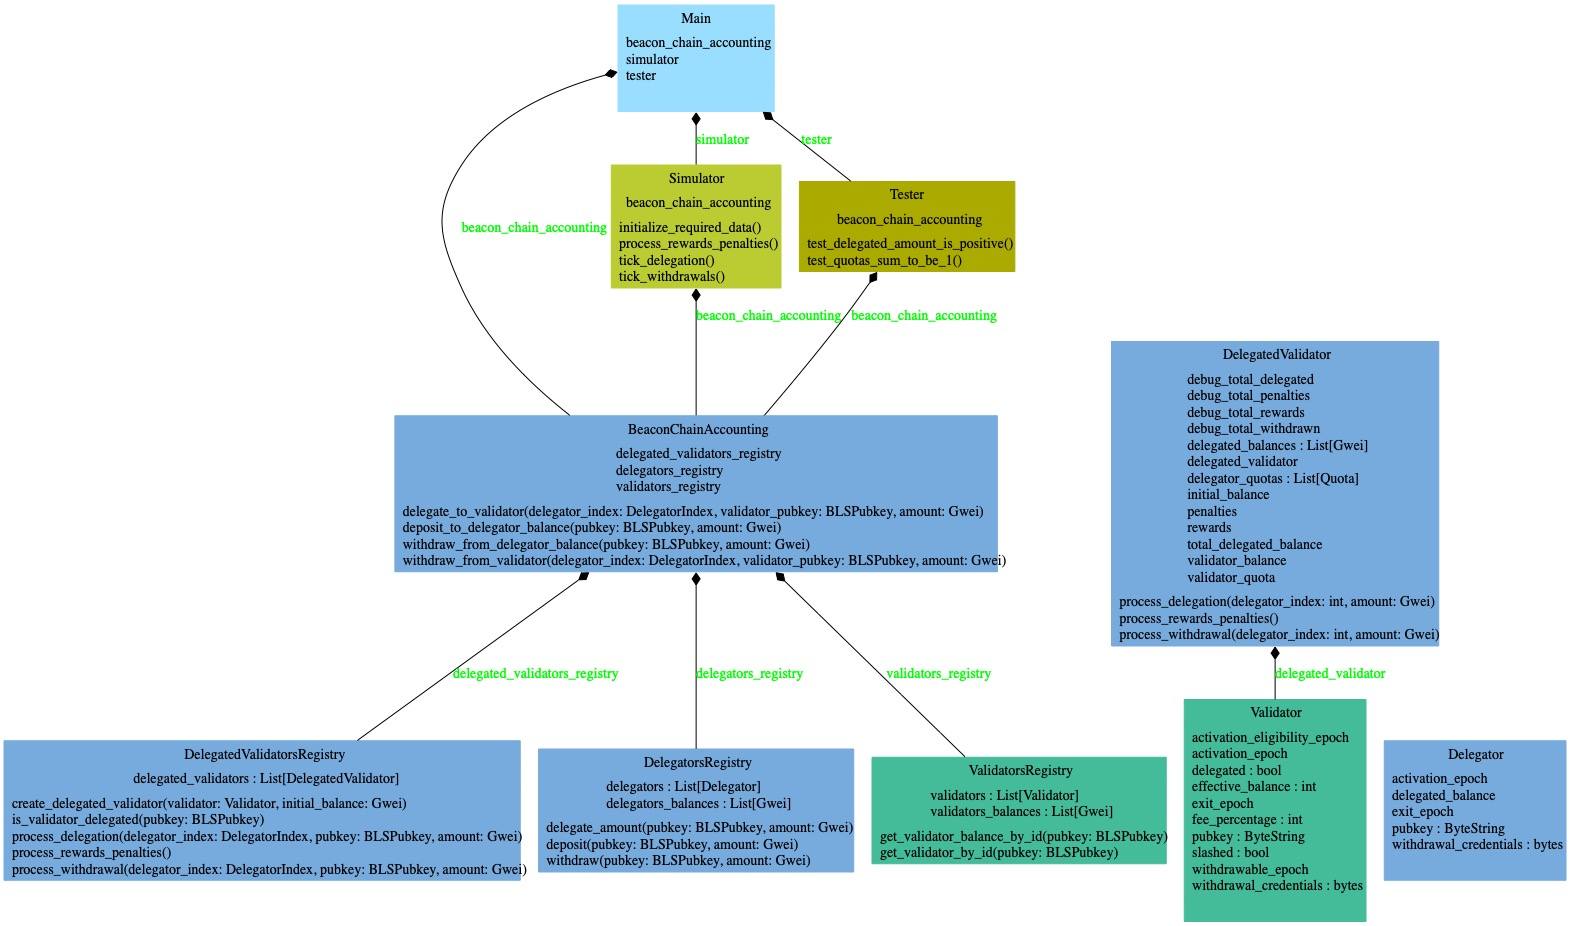
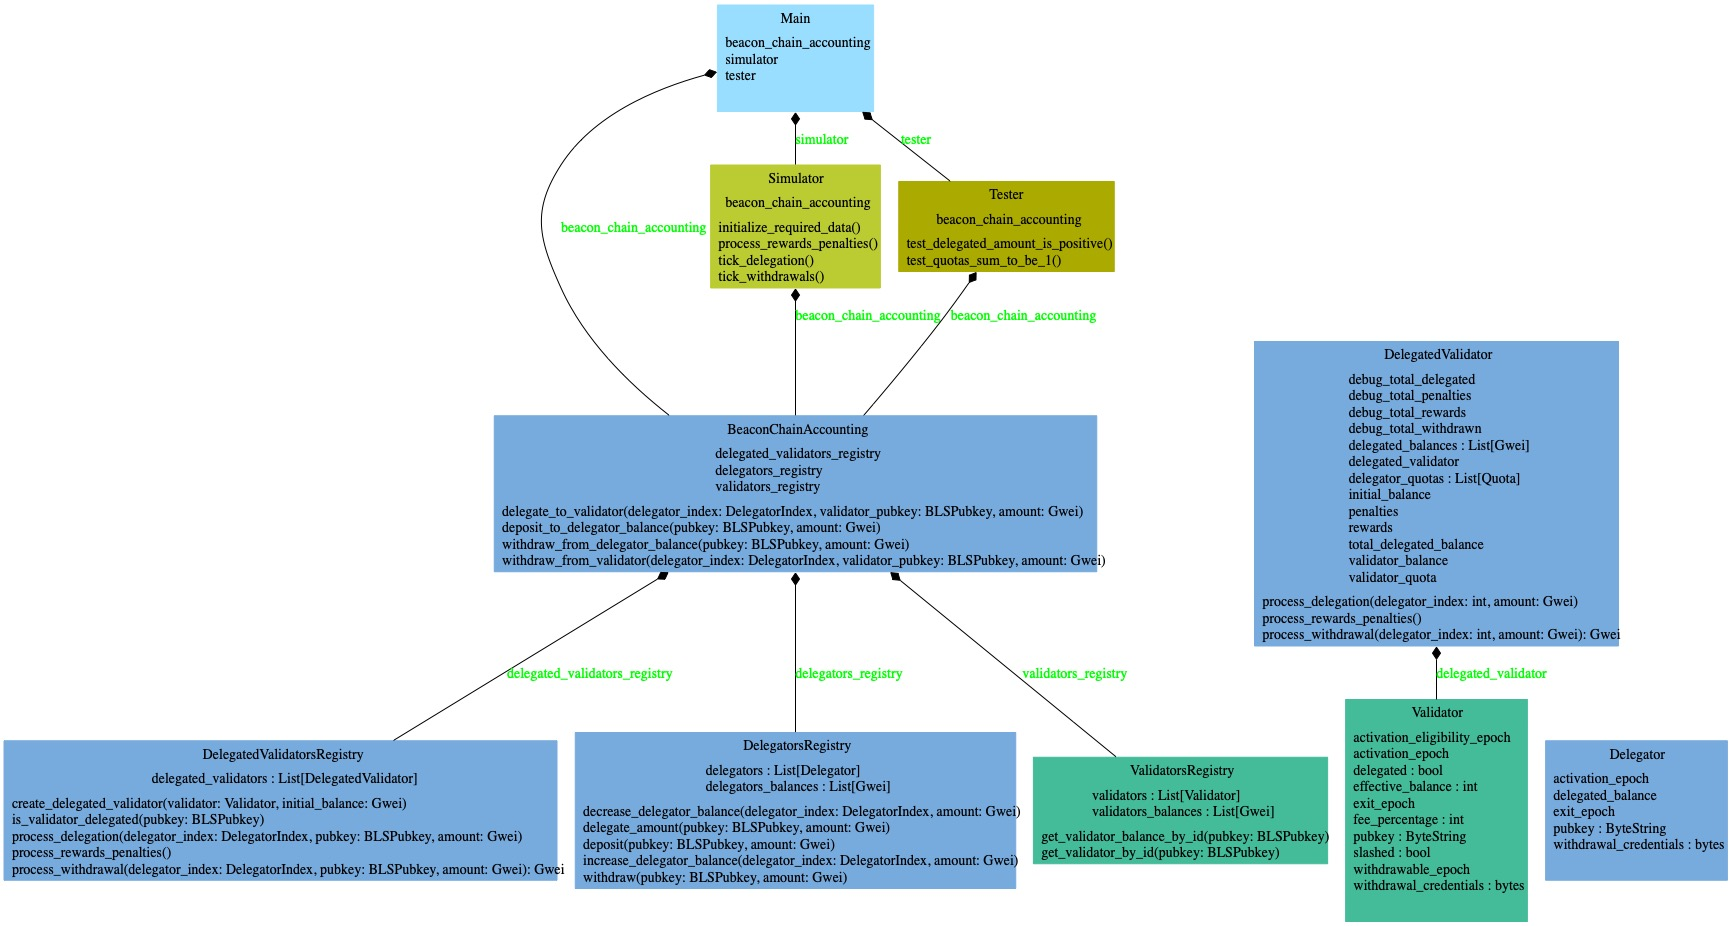
Docs gen and comments fixed

diff --git a/docs/src/eods/delegators_registry.html b/docs/src/eods/delegators_registry.html
@@ -85,8 +85,8 @@ el.replaceWith(d);
 
     def deposit(self, pubkey: BLSPubkey, amount: Gwei):
         &#34;&#34;&#34;
-        This method adds an amount from a delegator&#39;s balance.
-        If there is no delegator for the specified pubkey it will be created.
+        This method adds an amount to a delegator&#39;s balance.
+        If there is no delegator for the specified pubkey, a delegator will be created.
         &#34;&#34;&#34;
         
         # If delegator does not exist, register the new delegator
@@ -99,18 +99,38 @@ el.replaceWith(d);
 
         # Add the deposit amount to the delegator&#39;s balance
         self.delegators_balances[delegator_index] += amount
-
+    
     def withdraw(self, pubkey: BLSPubkey, amount: Gwei):
         &#34;&#34;&#34;
-        This method adds an amount from a delegator&#39;s balance.
+        This method withdraws an amount from a delegator&#39;s balance.
+        If the requested amount is larger than the available amount, 
+        only the available amount will be returned.
         &#34;&#34;&#34;
+        
         delegator_index = self._get_delegator_index_by_id(pubkey)
 
-        if amount &lt;= 0:
-            raise ValueError(&#34;Withdrawed amount must be positive.&#34;)
+        amount_to_withdraw = amount
 
-        # Adds the withdrawed amount back to the delegator&#39;s balance
+        if(amount_to_withdraw &gt; self.delegators_balances[delegator_index]):
+            amount_to_withdraw = self.delegators_balances[delegator_index]
+            
+        self.delegators_balances[delegator_index] -= amount_to_withdraw    
+
+    def increase_delegator_balance(self, delegator_index: DelegatorIndex, amount: Gwei):
+        &#34;&#34;&#34;
+        This method adds an amount to a delegator&#39;s balance.
+        &#34;&#34;&#34;
+
+        if amount &lt; 0:
+            raise ValueError(&#34;Amount must be positive.&#34;)
+
         self.delegators_balances[delegator_index] += amount
+        
+    def decrease_delegator_balance(self, delegator_index: DelegatorIndex, amount: Gwei):
+        &#34;&#34;&#34;
+        This method removes an amount from a delegator&#39;s balance.
+        &#34;&#34;&#34;
+        self.delegators_balances[delegator_index] -= amount    
 
     def _get_delegator_index_by_id(self, pubkey : BLSPubkey):
         &#34;&#34;&#34;Helper function to find a validator&#39;s index by its ID.&#34;&#34;&#34;
@@ -147,6 +167,22 @@ el.replaceWith(d);
 </dl>
 <h3>Methods</h3>
 <dl>
+<dt id="src.eods.delegators_registry.DelegatorsRegistry.decrease_delegator_balance"><code class="name flex">
+<span>def <span class="ident">decrease_delegator_balance</span></span>(<span>self, delegator_index: numpy.uint64, amount: numpy.uint64)</span>
+</code></dt>
+<dd>
+<details class="source">
+<summary>
+<span>Expand source code</span>
+</summary>
+<pre><code class="python">def decrease_delegator_balance(self, delegator_index: DelegatorIndex, amount: Gwei):
+    &#34;&#34;&#34;
+    This method removes an amount from a delegator&#39;s balance.
+    &#34;&#34;&#34;
+    self.delegators_balances[delegator_index] -= amount    </code></pre>
+</details>
+<div class="desc"><p>This method removes an amount from a delegator's balance.</p></div>
+</dd>
 <dt id="src.eods.delegators_registry.DelegatorsRegistry.delegate_amount"><code class="name flex">
 <span>def <span class="ident">delegate_amount</span></span>(<span>self, pubkey: ByteString, amount: numpy.uint64)</span>
 </code></dt>
@@ -183,8 +219,8 @@ el.replaceWith(d);
 </summary>
 <pre><code class="python">def deposit(self, pubkey: BLSPubkey, amount: Gwei):
     &#34;&#34;&#34;
-    This method adds an amount from a delegator&#39;s balance.
-    If there is no delegator for the specified pubkey it will be created.
+    This method adds an amount to a delegator&#39;s balance.
+    If there is no delegator for the specified pubkey, a delegator will be created.
     &#34;&#34;&#34;
     
     # If delegator does not exist, register the new delegator
@@ -198,8 +234,28 @@ el.replaceWith(d);
     # Add the deposit amount to the delegator&#39;s balance
     self.delegators_balances[delegator_index] += amount</code></pre>
 </details>
-<div class="desc"><p>This method adds an amount from a delegator's balance.
-If there is no delegator for the specified pubkey it will be created.</p></div>
+<div class="desc"><p>This method adds an amount to a delegator's balance.
+If there is no delegator for the specified pubkey, a delegator will be created.</p></div>
+</dd>
+<dt id="src.eods.delegators_registry.DelegatorsRegistry.increase_delegator_balance"><code class="name flex">
+<span>def <span class="ident">increase_delegator_balance</span></span>(<span>self, delegator_index: numpy.uint64, amount: numpy.uint64)</span>
+</code></dt>
+<dd>
+<details class="source">
+<summary>
+<span>Expand source code</span>
+</summary>
+<pre><code class="python">def increase_delegator_balance(self, delegator_index: DelegatorIndex, amount: Gwei):
+    &#34;&#34;&#34;
+    This method adds an amount to a delegator&#39;s balance.
+    &#34;&#34;&#34;
+
+    if amount &lt; 0:
+        raise ValueError(&#34;Amount must be positive.&#34;)
+
+    self.delegators_balances[delegator_index] += amount</code></pre>
+</details>
+<div class="desc"><p>This method adds an amount to a delegator's balance.</p></div>
 </dd>
 <dt id="src.eods.delegators_registry.DelegatorsRegistry.withdraw"><code class="name flex">
 <span>def <span class="ident">withdraw</span></span>(<span>self, pubkey: ByteString, amount: numpy.uint64)</span>
@@ -211,17 +267,23 @@ If there is no delegator for the specified pubkey it will be created.</p></div>
 </summary>
 <pre><code class="python">def withdraw(self, pubkey: BLSPubkey, amount: Gwei):
     &#34;&#34;&#34;
-    This method adds an amount from a delegator&#39;s balance.
+    This method withdraws an amount from a delegator&#39;s balance.
+    If the requested amount is larger than the available amount, 
+    only the available amount will be returned.
     &#34;&#34;&#34;
+    
     delegator_index = self._get_delegator_index_by_id(pubkey)
 
-    if amount &lt;= 0:
-        raise ValueError(&#34;Withdrawed amount must be positive.&#34;)
+    amount_to_withdraw = amount
 
-    # Adds the withdrawed amount back to the delegator&#39;s balance
-    self.delegators_balances[delegator_index] += amount</code></pre>
+    if(amount_to_withdraw &gt; self.delegators_balances[delegator_index]):
+        amount_to_withdraw = self.delegators_balances[delegator_index]
+        
+    self.delegators_balances[delegator_index] -= amount_to_withdraw    </code></pre>
 </details>
-<div class="desc"><p>This method adds an amount from a delegator's balance.</p></div>
+<div class="desc"><p>This method withdraws an amount from a delegator's balance.
+If the requested amount is larger than the available amount,
+only the available amount will be returned.</p></div>
 </dd>
 </dl>
 </dd>
@@ -243,10 +305,12 @@ If there is no delegator for the specified pubkey it will be created.</p></div>
 <li>
 <h4><code><a title="src.eods.delegators_registry.DelegatorsRegistry" href="#src.eods.delegators_registry.DelegatorsRegistry">DelegatorsRegistry</a></code></h4>
 <ul class="">
+<li><code><a title="src.eods.delegators_registry.DelegatorsRegistry.decrease_delegator_balance" href="#src.eods.delegators_registry.DelegatorsRegistry.decrease_delegator_balance">decrease_delegator_balance</a></code></li>
 <li><code><a title="src.eods.delegators_registry.DelegatorsRegistry.delegate_amount" href="#src.eods.delegators_registry.DelegatorsRegistry.delegate_amount">delegate_amount</a></code></li>
 <li><code><a title="src.eods.delegators_registry.DelegatorsRegistry.delegators" href="#src.eods.delegators_registry.DelegatorsRegistry.delegators">delegators</a></code></li>
 <li><code><a title="src.eods.delegators_registry.DelegatorsRegistry.delegators_balances" href="#src.eods.delegators_registry.DelegatorsRegistry.delegators_balances">delegators_balances</a></code></li>
 <li><code><a title="src.eods.delegators_registry.DelegatorsRegistry.deposit" href="#src.eods.delegators_registry.DelegatorsRegistry.deposit">deposit</a></code></li>
+<li><code><a title="src.eods.delegators_registry.DelegatorsRegistry.increase_delegator_balance" href="#src.eods.delegators_registry.DelegatorsRegistry.increase_delegator_balance">increase_delegator_balance</a></code></li>
 <li><code><a title="src.eods.delegators_registry.DelegatorsRegistry.withdraw" href="#src.eods.delegators_registry.DelegatorsRegistry.withdraw">withdraw</a></code></li>
 </ul>
 </li>

diff --git a/docs/src/eods/beacon_chain_accounting.html b/docs/src/eods/beacon_chain_accounting.html
@@ -57,7 +57,7 @@ el.replaceWith(d);
 </summary>
 <pre><code class="python">class BeaconChainAccounting:
     &#34;&#34;&#34;
-    This class is responsible for exposing the balance sheet operations - delegations and withdrawals.
+    This class is responsible for exposing the balance sheet operations - deposit to delegator balance, delegations toward and withdrawals.
     
     These are the different contexts of depositing/withdrawing:
         deposit_to_delegate_contract -&gt; delegator balance : deposit_to_delegator_balance
@@ -105,6 +105,8 @@ el.replaceWith(d);
             self.delegated_validators_registry.create_delegated_validator(validator, amount)
 
         self.delegated_validators_registry.process_delegation(delegator_index, validator.pubkey, amount)
+        
+        self.delegators_registry.decrease_delegator_balance(delegator_index, amount)
 
     def withdraw_from_validator(self, delegator_index: DelegatorIndex, validator_pubkey: BLSPubkey, amount: Gwei):
         &#34;&#34;&#34;
@@ -123,9 +125,11 @@ el.replaceWith(d);
         if not self.delegated_validators_registry.is_validator_delegated(validator.pubkey):
             raise ValueError(&#34;Validator with the provided pubkey is not delegated validator&#34;)
 
-        self.delegated_validators_registry.process_withdrawal(delegator_index, validator.pubkey, amount)</code></pre>
+        withdrawal_amount = self.delegated_validators_registry.process_withdrawal(delegator_index, validator.pubkey, amount)
+
+        self.delegators_registry.increase_delegator_balance(delegator_index, withdrawal_amount)</code></pre>
 </details>
-<div class="desc"><p>This class is responsible for exposing the balance sheet operations - delegations and withdrawals.</p>
+<div class="desc"><p>This class is responsible for exposing the balance sheet operations - deposit to delegator balance, delegations toward and withdrawals.</p>
 <p>These are the different contexts of depositing/withdrawing:
 deposit_to_delegate_contract -&gt; delegator balance : deposit_to_delegator_balance
 ExecutionAddress &lt;- delegator balance : withdraw_from_delegator_balance
@@ -172,7 +176,9 @@ delegator balance &lt;- validator : withdraw_from_validator</p></div>
     if not self.delegated_validators_registry.is_validator_delegated(validator.pubkey):
         self.delegated_validators_registry.create_delegated_validator(validator, amount)
 
-    self.delegated_validators_registry.process_delegation(delegator_index, validator.pubkey, amount)</code></pre>
+    self.delegated_validators_registry.process_delegation(delegator_index, validator.pubkey, amount)
+    
+    self.delegators_registry.decrease_delegator_balance(delegator_index, amount)</code></pre>
 </details>
 <div class="desc"><p>This method acts as an entrypoint for delegation. It creates a delegated validator if needed and
 it funds it with a given amount.</p>
@@ -245,7 +251,9 @@ If there is no delegator the registry will create one.</p></div>
     if not self.delegated_validators_registry.is_validator_delegated(validator.pubkey):
         raise ValueError(&#34;Validator with the provided pubkey is not delegated validator&#34;)
 
-    self.delegated_validators_registry.process_withdrawal(delegator_index, validator.pubkey, amount)</code></pre>
+    withdrawal_amount = self.delegated_validators_registry.process_withdrawal(delegator_index, validator.pubkey, amount)
+
+    self.delegators_registry.increase_delegator_balance(delegator_index, withdrawal_amount)</code></pre>
 </details>
 <div class="desc"><p>This method acts as an entrypoint for withdrawal. </p>
 <h2 id="args">Args</h2>

diff --git a/docs/src/eods/delegated_validators_registry.html b/docs/src/eods/delegated_validators_registry.html
@@ -95,12 +95,14 @@ el.replaceWith(d);
         delegated_validator = self._get_delegated_validator_by_id(pubkey)
         delegated_validator.process_delegation(delegator_index, amount)
 
-    def process_withdrawal(self, delegator_index: DelegatorIndex, pubkey: BLSPubkey, amount: Gwei):
+    def process_withdrawal(self, delegator_index: DelegatorIndex, pubkey: BLSPubkey, amount: Gwei) -&gt; Gwei:
         &#34;&#34;&#34;
         This method uses the delegated validator to process a withdrawal.
         &#34;&#34;&#34;
         delegated_validator = self._get_delegated_validator_by_id(pubkey)
-        delegated_validator.process_withdrawal(delegator_index, amount)
+        
+        return delegated_validator.process_withdrawal(delegator_index, amount)
+
 
     def process_rewards_penalties(self):
         &#34;&#34;&#34;
@@ -213,19 +215,20 @@ el.replaceWith(d);
 <div class="desc"><p>This method uses the delegated validator to process the rewards and penalties.</p></div>
 </dd>
 <dt id="src.eods.delegated_validators_registry.DelegatedValidatorsRegistry.process_withdrawal"><code class="name flex">
-<span>def <span class="ident">process_withdrawal</span></span>(<span>self, delegator_index: numpy.uint64, pubkey: ByteString, amount: numpy.uint64)</span>
+<span>def <span class="ident">process_withdrawal</span></span>(<span>self, delegator_index: numpy.uint64, pubkey: ByteString, amount: numpy.uint64) ‑> numpy.uint64</span>
 </code></dt>
 <dd>
 <details class="source">
 <summary>
 <span>Expand source code</span>
 </summary>
-<pre><code class="python">def process_withdrawal(self, delegator_index: DelegatorIndex, pubkey: BLSPubkey, amount: Gwei):
+<pre><code class="python">def process_withdrawal(self, delegator_index: DelegatorIndex, pubkey: BLSPubkey, amount: Gwei) -&gt; Gwei:
     &#34;&#34;&#34;
     This method uses the delegated validator to process a withdrawal.
     &#34;&#34;&#34;
     delegated_validator = self._get_delegated_validator_by_id(pubkey)
-    delegated_validator.process_withdrawal(delegator_index, amount)</code></pre>
+    
+    return delegated_validator.process_withdrawal(delegator_index, amount)</code></pre>
 </details>
 <div class="desc"><p>This method uses the delegated validator to process a withdrawal.</p></div>
 </dd>

diff --git a/docs/src/eods/delegated_validator.html b/docs/src/eods/delegated_validator.html
@@ -96,7 +96,7 @@ el.replaceWith(d);
         self.debug_total_penalties = 0
         
 
-    def process_withdrawal(self, delegator_index: int, amount: Gwei):
+    def process_withdrawal(self, delegator_index: int, amount: Gwei) -&gt; Gwei:
         &#34;&#34;&#34;
         Method to process a withdrawal of balance from the delegated validator towards a delegator with `delegator_index`
         &#34;&#34;&#34;
@@ -116,6 +116,8 @@ el.replaceWith(d);
         self._recalculate_quotas()
 
         self.debug_total_withdrawn += withdrawable_amount
+        
+        return withdrawable_amount
 
     def process_delegation(self, delegator_index: int, amount: Gwei):
         &#34;&#34;&#34;
@@ -299,14 +301,14 @@ It defines quotas, tracks balances, and facilitates operations related to delega
 <div class="desc"><p>This method processes the rewards and penalties.</p></div>
 </dd>
 <dt id="src.eods.delegated_validator.DelegatedValidator.process_withdrawal"><code class="name flex">
-<span>def <span class="ident">process_withdrawal</span></span>(<span>self, delegator_index: int, amount: numpy.uint64)</span>
+<span>def <span class="ident">process_withdrawal</span></span>(<span>self, delegator_index: int, amount: numpy.uint64) ‑> numpy.uint64</span>
 </code></dt>
 <dd>
 <details class="source">
 <summary>
 <span>Expand source code</span>
 </summary>
-<pre><code class="python">def process_withdrawal(self, delegator_index: int, amount: Gwei):
+<pre><code class="python">def process_withdrawal(self, delegator_index: int, amount: Gwei) -&gt; Gwei:
     &#34;&#34;&#34;
     Method to process a withdrawal of balance from the delegated validator towards a delegator with `delegator_index`
     &#34;&#34;&#34;
@@ -325,7 +327,9 @@ It defines quotas, tracks balances, and facilitates operations related to delega
 
     self._recalculate_quotas()
 
-    self.debug_total_withdrawn += withdrawable_amount</code></pre>
+    self.debug_total_withdrawn += withdrawable_amount
+    
+    return withdrawable_amount</code></pre>
 </details>
 <div class="desc"><p>Method to process a withdrawal of balance from the delegated validator towards a delegator with <code>delegator_index</code></p></div>
 </dd>

diff --git a/src/eods/beacon_chain_accounting.py b/src/eods/beacon_chain_accounting.py
@@ -61,7 +61,7 @@ class BeaconChainAccounting:
 
     def withdraw_from_validator(self, delegator_index: DelegatorIndex, validator_pubkey: BLSPubkey, amount: Gwei):
         """
-        This method acts as an entrypoint for withdrawal. 
+        This method acts as an entrypoint for withdrawal from a validator. 
         Args:
             delegator_index (DelegatorIndex): The index of the delegator.
             validator_pubkey (BLSPubkey): The public key of the validator.
